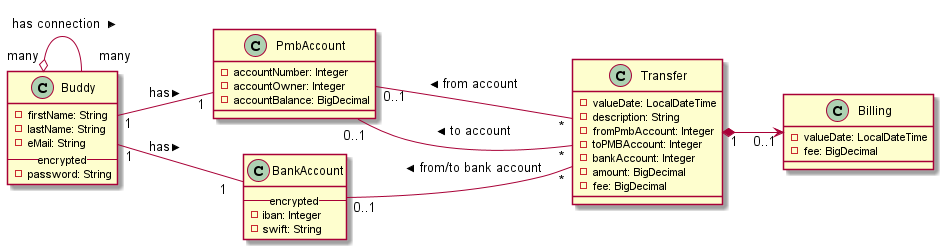
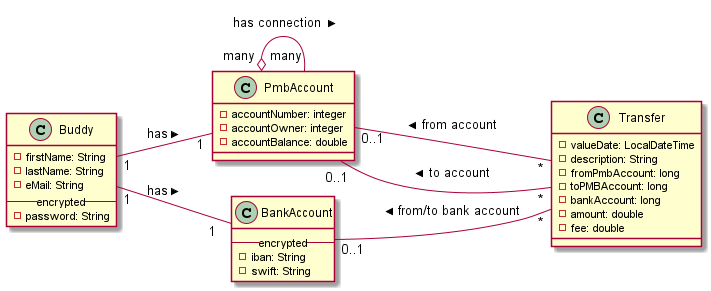
feat: Release v0.4 that adds money transfer functionality

diff --git a/readme.md b/readme.md
@@ -1,15 +1,26 @@
-#Pay My Buddy - v0.3
+#Pay My Buddy - v0.4
+
 
 ###Infos
+
 author: Thierry 'Docky' SCHREINER - DA Java student - Open ClassRooms
 
 mentored by: Yann 'Monsieur Plus' IRRILO
 
-release date: 26/06/2020
+release date: 07/07/2020
 
 
 ### Content
 
+The v0.4 release adds the Money transfer functionality with a POST request
+(/sendMoney), using an orderDTO:
+ 
+    {
+        "beneficiary":"Daniel.Craig@JamesBond.fr",
+        "amount":350
+    }
+
+Previous version content:
 - Authentication that provides a Json Web Token (activity period 20 minutes).
 - GET - http://localhost:8080/welcome
 - Sign-up endpoint -> POST - http://localhost:8080/registration
@@ -89,12 +100,12 @@ set next_val = 29;
         -- encrypted --
         -password
     }
-    Left to right direction
-    Buddy "many" o-- "   many" Buddy : < has connection
     class PmbAccount  {
         -accountNumber
         -accountBalance
     }
+    Left to right direction
+    PmbAccount "many" o-- "  many" PmbAccount : < has connection
     Buddy "1  " --  "1" PmbAccount : > has
     class BankAccount {
         -- encrypted --
@@ -137,17 +148,17 @@ set next_val = 29;
         -- encrypted --
         -password: String
     }
-    Left to right direction
-    Buddy "many" o-- "   many" Buddy : < has connection
     class PmbAccount  {
-        -accountNumber: Integer
-        -accountOwner: Integer
-        -accountBalance: BigDecimal
+        -accountNumber: integer
+        -accountOwner: integer
+        -accountBalance: double
     }
+    Left to right direction
+    PmbAccount "many" o-- "many " PmbAccount : < has connection
     Buddy "1  " --  "1" PmbAccount : > has
     class BankAccount {
         -- encrypted --
-        -iban: Integer
+        -iban: String
         -swift: String
     }
     Buddy "1" --  "1  " BankAccount : > has
@@ -155,20 +166,16 @@ set next_val = 29;
     class Transfer {
         -valueDate: LocalDateTime
         -description: String
-        -fromPmbAccount: Integer
-        -toPMBAccount: Integer
-        -bankAccount: Integer
-        -amount: BigDecimal
-        -fee: BigDecimal
+        -fromPmbAccount: long
+        -toPMBAccount: long
+        -bankAccount: long
+        -amount: double
+        -fee: double
     }
     PmbAccount "0..1" --  "*" Transfer : < from account
     PmbAccount " 0..1" --  "*" Transfer : < to account
     BankAccount "0..1  " --  "*" Transfer : < from/to bank account
-    class Billing {
-        -valueDate: LocalDateTime
-        -fee: BigDecimal
-    }
-    Transfer "1" *--> "0..1" Billing
+
     
     @enduml
     ```
